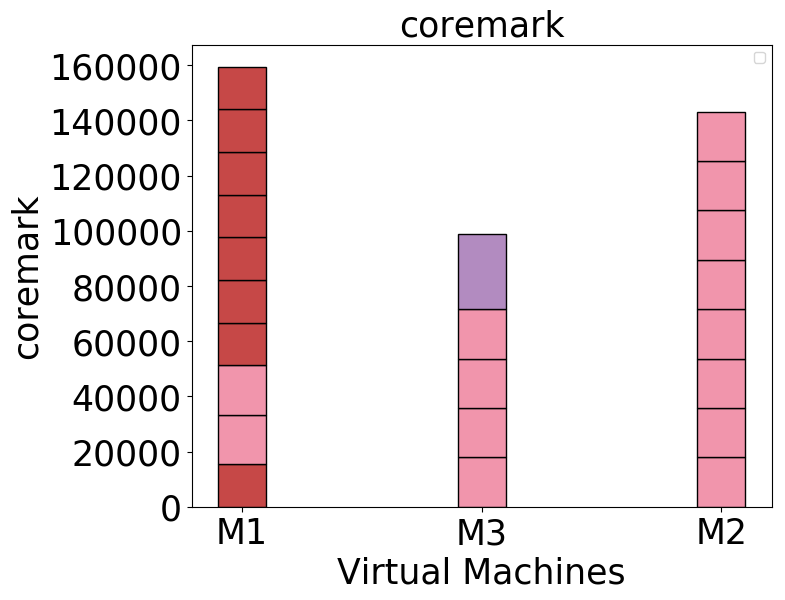
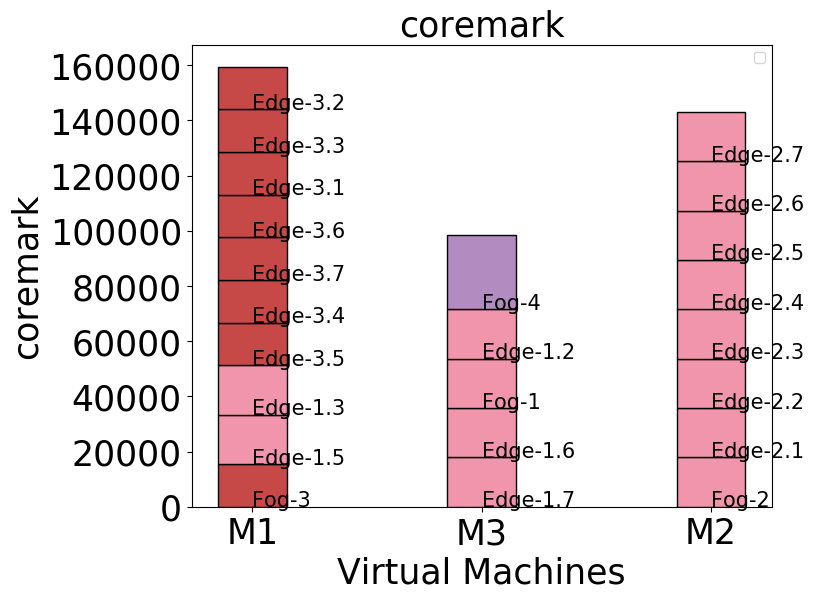
added text labels to metis output

diff --git a/dump/metis/bsplot.py b/dump/metis/bsplot.py
@@ -19,6 +19,8 @@ networks = []
 nw_coremark = {}
 nw_memory = {}
 nw_disk = {}
+nw_devices = {}
+
 
 vm_config = json.load(open("../../config/vm_config.json"))
 vm_names = vm_config["container_VM"].keys()
@@ -30,12 +32,13 @@ print vm_names
 print
 
 metis_data = []
+metis_devices = []
 
 for vm in vm_names:
 	nw_coremark[vm] = {}
         nw_memory[vm] = {}
         nw_disk[vm] = {}
-
+	nw_devices[vm] = {}
 
 for device in metis_partitions:
 	vm = vm_names[int(metis_partitions[device])]
@@ -43,7 +46,9 @@ for device in metis_partitions:
 	nw_coremark[vm][device] = int(device_types[devices[device]["device_type"]]["coremark"])
         nw_memory[vm][device] = int(device_types[devices[device]["device_type"]]["memory_mb"])
         nw_disk[vm][device] = int(device_types[devices[device]["device_type"]]["disk_mb"])
+	nw_devices[vm][device] = device
 
+metis_devices.append(nw_devices)
 
 if sys.argv[1] == "coremark":
 	metis_data.append(nw_coremark)
@@ -55,8 +60,12 @@ else:
 	print "Incorrect input"
 	sys.exit(0)
 
+print "metis devices"
+print metis_devices
+
 metis_order = []
 dataset = []
+deviceset = []
 colors = {'Pi2B':'#00a8ff','Pi3B':'#c64847','Pi3B+':'#f195ac','TX1':'#b28bc0','SI':'#7fd13b'}
 labels = {'#00a8ff':'Pi2B','#c64847':'Pi3B','#f195ac':'Pi3B+','#b28bc0':'TX1','#7fd13b':'SI'}
 metis_colors = []
@@ -64,6 +73,7 @@ metis_colors = []
 for i in range(len(metis_data)):
 	for vm in vm_names:
 		dataset.append(metis_data[i][vm])
+		deviceset.append(metis_devices[i][vm])
 		order = []
 		col = []
 		for d in metis_data[i][vm].keys():
@@ -71,6 +81,8 @@ for i in range(len(metis_data)):
 			col.append(colors[devices[d]["device_type"]])
 		metis_order.append(order)
 		metis_colors.append(col)
+
+
 
 max_length = max(len(d) for d in dataset)
 print max_length
@@ -80,17 +92,38 @@ for d in dataset:
 	while l>0:
 		d[devices.keys()[l]] = 0
 		metis_order[i].append(devices.keys()[l])
+		#metis_devices[i].append(devices.keys()[l])
+		l-=1
+	i+=1
+
+i=0
+for d in deviceset:
+	l = max_length - len(d)
+	while l>0:
+		d[devices.keys()[l]] = ' '
 		l-=1
 	i+=1
 	
-	
+print "dataset"	
 print dataset
-print metis_colors
+#print metis_colors
 data_orders = metis_order
 print data_orders
+print "deviceset"
+print deviceset
+
+#for i in range(len(data_orders)):
+#	data_orders[i] = sorted(data_orders[i])
+	
+
+#print "sorted"
+#print metis_order
+
 
 values = np.array([[data[name] for name in order] for data,order in zip(dataset, data_orders)])
 print values
+devices = np.array([[dev[name] for name in order] for dev,order in zip(deviceset, data_orders)])
+print devices
 lefts=np.insert(np.cumsum(values,axis=1),0,0,axis=1)[:,:-1]
 print lefts
 orders = np.array(data_orders)
@@ -100,23 +133,23 @@ print bottoms
 #fig = plt.figure(1,figsize=(9, 6))
 fig,ax = plt.subplots()
 
-check = ['r','m','y','b','g']
 
 index = 0
 for names,color in zip(dataset,metis_colors):
-	print names,color
+	print "names,coloe,devices"
+	print names,color,devices
 	idx = np.where(orders==names.keys())
 	value = values[idx]
 	print value
 	left = lefts[idx]
 	print left
+	device = devices[idx]
 	#index=0
+	k=0
 	for n,c,v,l in zip(names,color,value,left):
-		if c in check:
-			boxes = plt.bar(left=bottoms[index],height=v,width=0.2,bottom=l,color=c,edgecolor='black',orientation='vertical')
-			check.remove(c)
-		else:
-			boxes = plt.bar(left=bottoms[index],height=v,width=0.2,bottom=l,color=c,edgecolor='black',orientation='vertical')
+		boxes = plt.bar(left=bottoms[index],height=v,width=0.3,bottom=l,color=c,edgecolor='black',orientation='vertical')
+		text(bottoms[index],l,device[k],size=15)
+		k+=1
 	index+=1
 #index%=3
 
